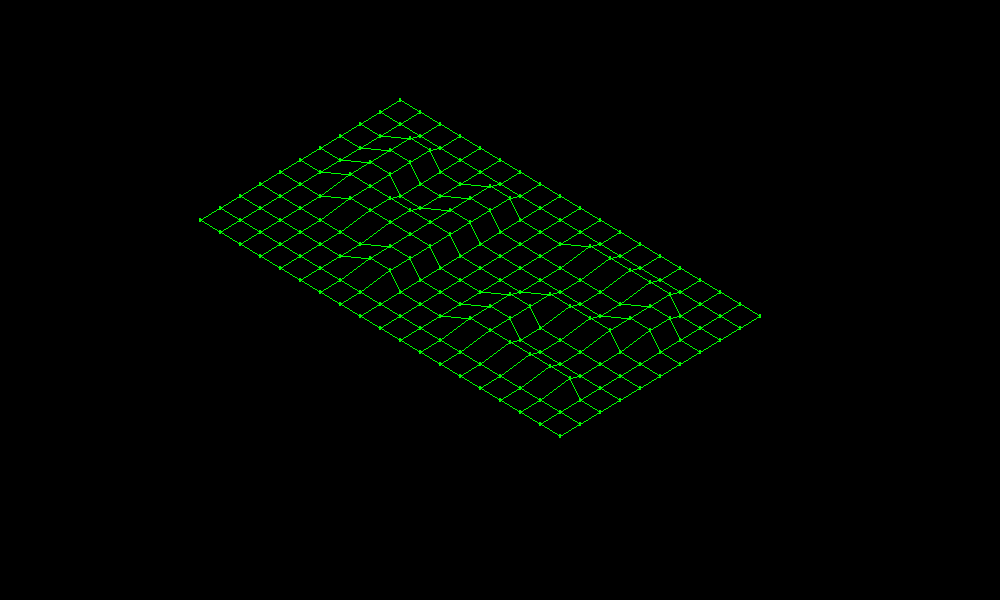
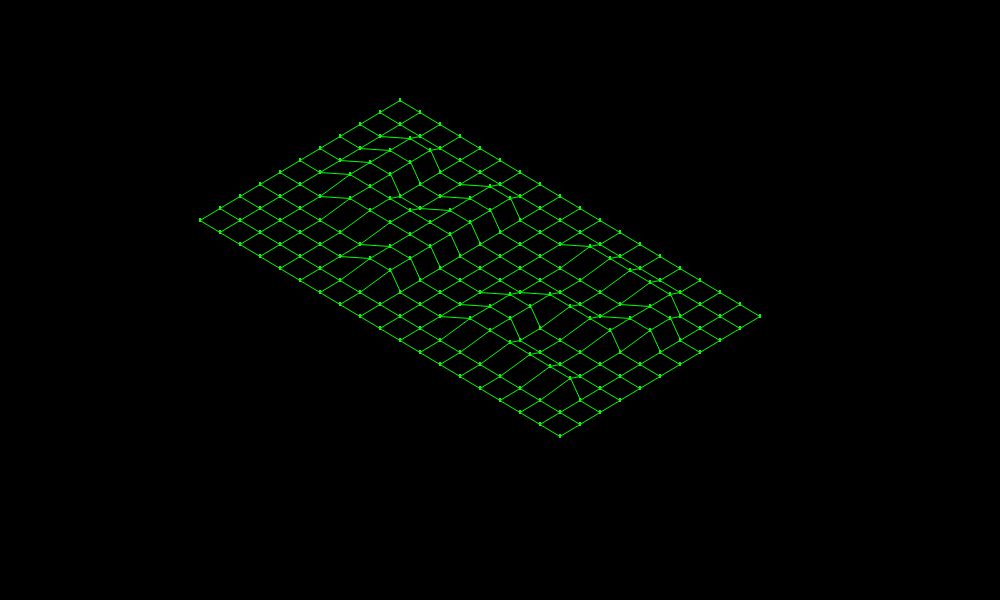
antialiasing

Changed region(s): [[0.217, 0.18, 0.744, 0.72]]

diff --git a/src/modules/window.py b/src/modules/window.py
@@ -1,6 +1,12 @@
 from pygame.locals import *
 import pygame
 
+BLACK = (  0,   0,   0)
+WHITE = (255, 255, 255)
+BLUE =  (  0,   0, 255)
+GREEN = (  0, 255,   0)
+RED =   (255,   0,   0)
+
 X_START = 400
 Y_START = 100
 
@@ -15,19 +21,19 @@ class Window:
 					x_point = (i2 - i1) * (TILE_WIDTH / 2) + X_START + int(x)
 					y_point = (i2 + i1) * (TILE_HEIGHT / 2) + Y_START - int(x)
 
-					pygame.draw.circle(self._display_surf, (0, 255, 0), (x_point, y_point), 1)
+					pygame.draw.circle(self._display_surf, GREEN, (x_point, y_point), 1)
 					
 					if i2 < len(y) - 1:
 						x_next_point = (i2 - i1 + 1) * (TILE_WIDTH / 2) + X_START + int(map[i1][i2 + 1])
 						y_next_point = (i2 + i1 + 1) * (TILE_HEIGHT / 2) + Y_START - int(map[i1][i2 + 1])
 						
-						pygame.draw.line(self._display_surf, (0, 255, 0), (x_point, y_point), (x_next_point, y_next_point))
+						pygame.draw.aaline(self._display_surf, GREEN, (x_point, y_point), (x_next_point, y_next_point))
 					
 					if i1 < len(map) - 1:
 						x_next_point = (i2 - i1 - 1) * (TILE_WIDTH / 2) + X_START + int(map[i1 + 1][i2])
 						y_next_point = (i2 + i1 + 1) * (TILE_HEIGHT / 2) + Y_START - int(map[i1 + 1][i2])
 							
-						pygame.draw.line(self._display_surf, (0, 255, 0), (x_point, y_point), (x_next_point, y_next_point))
+						pygame.draw.aaline(self._display_surf, GREEN, (x_point, y_point), (x_next_point, y_next_point))
 
 		except Exception as e:
 			print '\033[31m%s\033[m' % (e)
